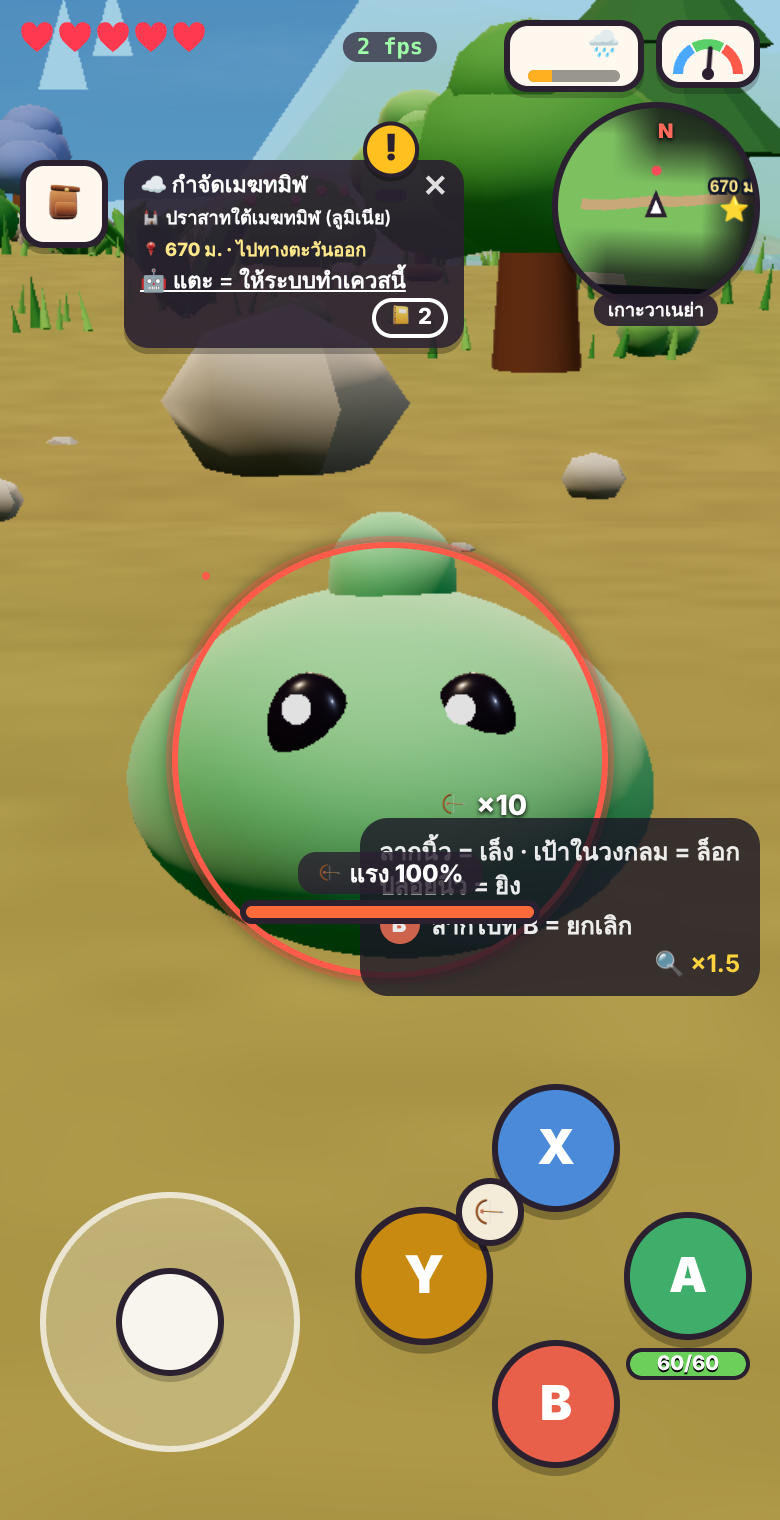
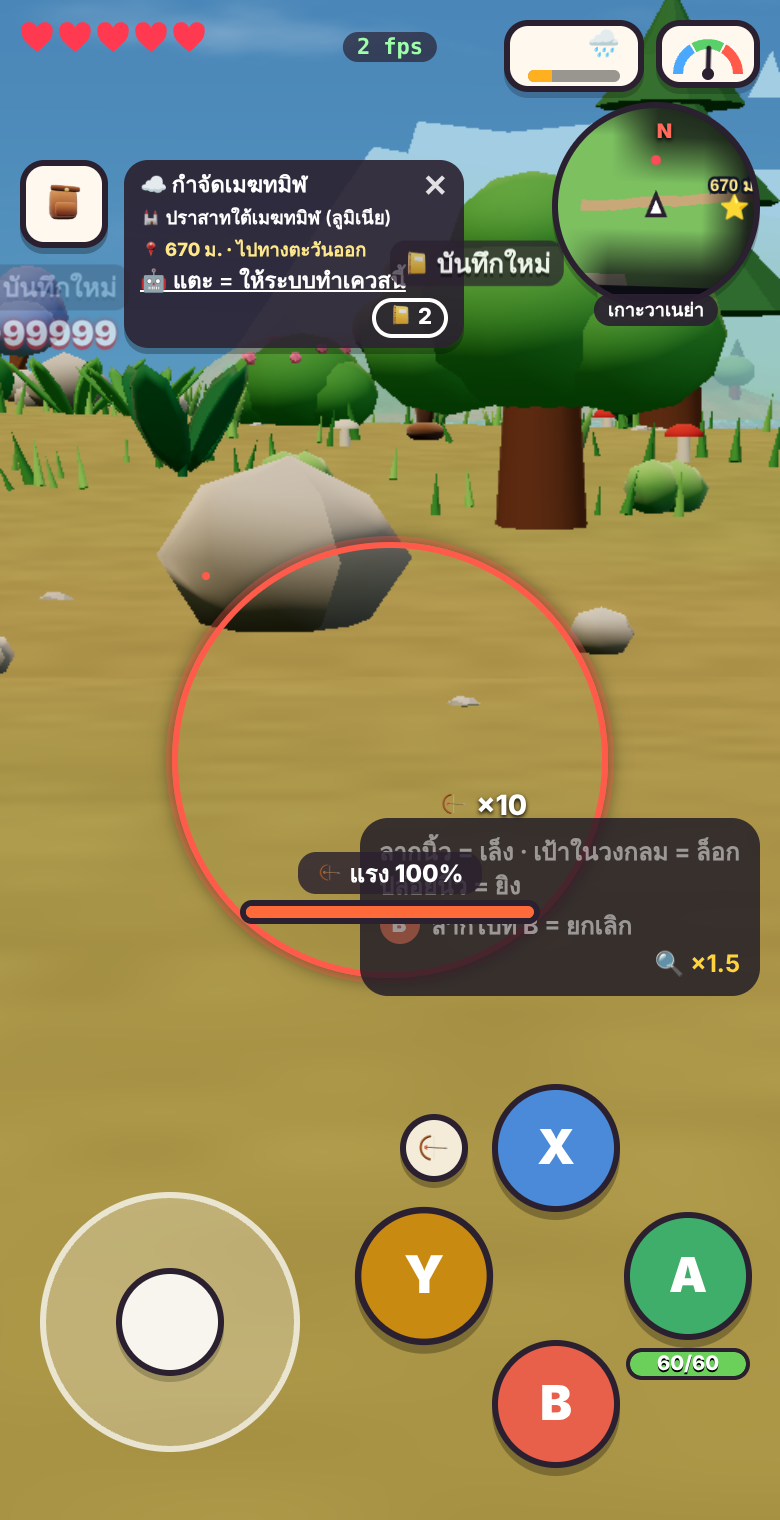
fix(kealee): v3.71 the 🏹 button moves up-left of the X–Y gap · fresh preview
Claude-Session: https://claude.ai/code/session_01GPWeNez232vT9ersFNk7wt

diff --git a/newgame/tools/test/qaim.js b/newgame/tools/test/qaim.js
@@ -14,7 +14,7 @@ const ROOT = path.resolve(__dirname, '../../..'), PORT = 8872, OUT = process.arg
     const E2 = E; const ev = (id, type, x, y) => E2(([id, type, x, y]) => { const el = document.getElementById(id), r = el.getBoundingClientRect(); el.dispatchEvent(new PointerEvent(type, { bubbles: true, pointerId: 9, clientX: x ?? r.x + r.width / 2, clientY: y ?? r.y + r.height / 2 })) }, [id, type, x, y]);
     await E(() => { const N = window.__ng; N.giveBow(); N.S.arrows = 10; N.placeMe(20, 2); for (const m of [...N.mons]) N.hurtMon(m, 99999, 'dmg'); N.S.time = 600; N.hud() }); await wait(800);
     const bb = await E(() => { const r = n => document.getElementById(n).getBoundingClientRect(), b = r('bBow'), x = r('bX'), y = r('bY'); return { vis: getComputedStyle(document.getElementById('bBow')).display !== 'none', cx: b.x + b.width / 2, cy: b.y + b.height / 2, mx: (x.x + x.width / 2 + y.x + y.width / 2) / 2, my: (x.y + x.height / 2 + y.y + y.height / 2) / 2, w: b.width } }); log('🏹 button', JSON.stringify(bb));
-    if (!bb.vis || Math.hypot(bb.cx - bb.mx, bb.cy - bb.my) > 3) errs.push('the 🏹 button should sit between X and Y');
+    if (!bb.vis || Math.hypot(bb.cx - bb.mx, bb.cy - bb.my) > 60 || !(bb.cx < bb.mx && bb.cy < bb.my)) errs.push('the 🏹 button should sit up-left of the X–Y gap');
     // a slime ahead · hold 🏹 = aim + zoom 1.5 · the circle locks it
     await ev('bBow', 'pointerdown'); await wait(900); await E(() => { const N = window.__ng, d = new N.THREE_V(); N.camera.getWorldDirection(d); const c = N.camera.position, l = Math.hypot(d.x, d.z) || 1; window.__sl = N.monSpawn('slime', c.x + d.x / l * 10, c.z + d.z / l * 10, { area: 'wild' }) }); await wait(1500); log('slime on screen', JSON.stringify(await E(() => { const N = window.__ng, p = window.__sl.A.root.position, v = new N.THREE_V(p.x, p.y + .5, p.z).project(N.camera); return { x: Math.round((v.x + 1) / 2 * innerWidth), y: Math.round((1 - v.y) / 2 * innerHeight), z: +v.z.toFixed(2), alive: N.mons.includes(window.__sl), cam: N.CAM.yaw } }))); const a1 = await E(() => { const A = window.__ng.AIM; return A && { quick: A.quick, zm: A.zm, lock: !!A.lockM, big: document.body.classList.contains('qaim') } }); log('aim', JSON.stringify(a1)); await pg.screenshot({ path: OUT + '/1-aim.png' });
     if (!a1 || !a1.quick || Math.abs(a1.zm - 1.5) > .01 || !a1.big) errs.push('holding 🏹 should aim first-person at ×1.5 with the big circle'); if (a1 && !a1.lock) errs.push('a target inside the circle should be locked');

diff --git a/newgame/src/main.js b/newgame/src/main.js
@@ -1538,7 +1538,7 @@ $('mFight').addEventListener('click', e => { e.preventDefault(); setMode('fight'
   BW.addEventListener('pointermove', e => { if (AIM && AIM.quick) qaimMove(e) }); const up = () => { if (AIM && AIM.quick) qaimUp() };
   BW.addEventListener('pointerup', up); BW.addEventListener('pointercancel', up); BW.addEventListener('contextmenu', e => e.preventDefault()) }
 function bowBtn() { const el = $('bBow'), on = !!bowOf() && S.mode !== 'farm'; el.classList.toggle('on', on); if (!on) return; const x = $('bX').getBoundingClientRect(), y = $('bY').getBoundingClientRect(); if (!x.width || !y.width) return;   /* sits in the gap between X and Y (wherever the layout put them) */
-  const cx = (x.left + x.right + y.left + y.right) / 4, cy = (x.top + x.bottom + y.top + y.bottom) / 4, w = el.offsetWidth || 34; el.style.left = Math.round(cx - w / 2) + 'px'; el.style.top = Math.round(cy - w / 2) + 'px'; el.style.right = el.style.bottom = 'auto' }
+  const k = x.width / 64, cx = (x.left + x.right + y.left + y.right) / 4 + D.QAIM.btn[0] * k, cy = (x.top + x.bottom + y.top + y.bottom) / 4 + D.QAIM.btn[1] * k, w = el.offsetWidth || 34;   /* v3.71 a little up-left of the X–Y gap */ el.style.left = Math.round(cx - w / 2) + 'px'; el.style.top = Math.round(cy - w / 2) + 'px'; el.style.right = el.style.bottom = 'auto' }
 addEventListener('resize', () => setTimeout(bowBtn, 200));
 /* v3.26 🐾 the skill wheel (hold X): 4 slots in the middle of the screen · ⬆ X · ⬇ B · ⬅ Y · ➡ A · press that button = use the skill at once · the stick or a tap outside closes it */
 const SKW = { on: false, el: (() => { const e = document.createElement('div'); e.id = 'skw'; document.body.appendChild(e); return e })(), t: 0 };

diff --git a/newgame/src/data.js b/newgame/src/data.js
@@ -221,7 +221,7 @@ export const GOLEMS = {
   navalee:   { kind: 'golemAqua', dx: -40, dz: 55, name: '🔷 โกเลมอความารีน', col: '#5ac0d0', core: '#c8ffff', mat: 'aquamarine', elem: 'wave' },
   frosthelm: { kind: 'golemCrystal', dx: 50, dz: 45, name: '🔹 โกเลมคริสตัล', col: '#a8d8f0', core: '#ffffff', mat: 'crystal', elem: 'freeze' },
   deadgar:   { kind: 'golemBone', dx: -45, dz: -50, name: '🦴 โกเลมกระดูก', col: '#e8e0d0', core: '#c080ff', mat: 'bone', elem: 'summon' } };
-export const QAIM = { zoom: 1.5, circle: .28, range: 40 };   // v3.71 🏹 quick aim: zoom of a plain bow · circle radius (share of the screen's short side) · lock range (m)
+export const QAIM = { zoom: 1.5, circle: .28, range: 40, btn: [-28, -32] };   // btn: the 🏹 button's offset from the X–Y gap (px at full button size)   // v3.71 🏹 quick aim: zoom of a plain bow · circle radius (share of the screen's short side) · lock range (m)
 export const TOWN_R = { harbour: 45 };
 export const GUARD = { near: 120, run: 5.4, walk: 1.3, reach: 1.7, every: .6, dmg: .35 };   // v3.70 💂 town guards: show up within `near` m · run / walk speed · reach to hit · seconds between hits · each hit = this share of the monster's max HP   // v3.70 how far the harbour town reaches from its plaza (golems / monsters keep out)
 export const GOLEM = { wake: 13, arena: 17, slam: { r: 4.6, wind: 1.3 }, rock: { r: 2.2, wind: 1.4 }, stun: 2.4, armor: .45, coreX: 2.6, drop: [3, 5] };
